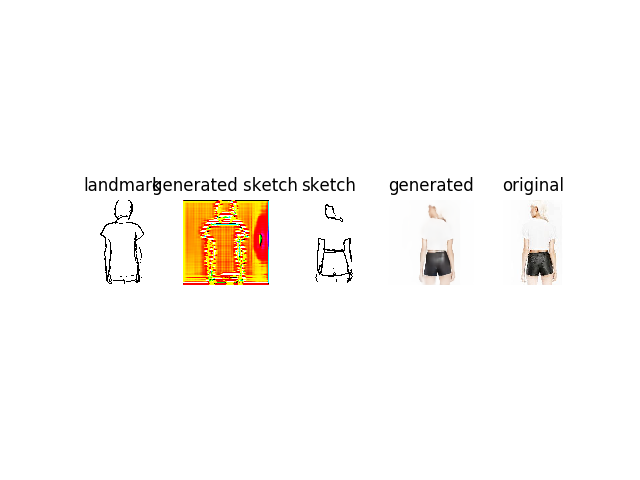
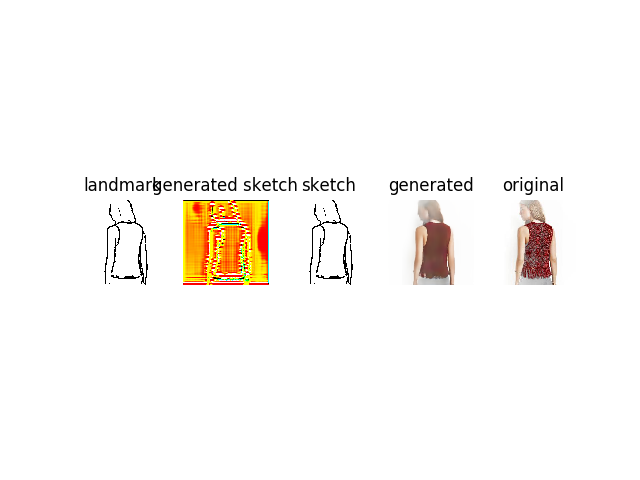
Test

diff --git a/test.py b/test.py
@@ -14,7 +14,7 @@ my_data_loader = DataLoader(img_size=(256, 256))
 imgs_A, imgs_B, imgs_C = my_data_loader.load_data_test(batch_size=2, is_testing=False)
 
 img_A = imgs_A[1,:,:,:] #(imgs_A[0,:,:,:] + imgs_A[1,:,:,:])*0.5
-img_B = imgs_A[0,:,:,:] #(imgs_B[0,:,:,:] + imgs_B[1,:,:,:])
+img_B = imgs_A[1,:,:,:] #(imgs_B[0,:,:,:] + imgs_B[1,:,:,:])
 img_C = imgs_C[1,:,:,:]
 
 img_A = img_A[np.newaxis,...]
@@ -27,7 +27,7 @@ model2 = load_model('../results/2stage/stage2-epoch-150.h5')
 
 # step3. predict results
 fake_A = model1.predict(img_B)
-sketch = np.concatenate([img_B, img_A], axis=3)
+sketch = np.concatenate([img_A, img_A], axis=3)
 fake_C = model2.predict(sketch)
 
 result = np.concatenate([img_B, fake_A, img_A, fake_C, img_C])
@@ -45,5 +45,6 @@ fig.savefig("test.png")
 plt.close()
 
 # print(fake_C.shape)
-output = np.squeeze((fake_A * 127.5 + 127.5).astype(np.uint8))
+output = np.squeeze((fake_C * 127.5 + 127.5).astype(np.uint8))
+output = cv2.cvtColor(output, cv2.COLOR_BGR2RGB)
 cv2.imwrite('test.jpg', output)

diff --git a/data_loader.py b/data_loader.py
@@ -15,7 +15,7 @@ class DataLoader():
         path = glob('../output/%s/*' % (data_type))
 
         # batch_images = np.random.choice(path, size=batch_size)
-        batch_images = ['../output/train/00000200.jpg', '../output/train/00001001.jpg']
+        batch_images = ['../output/train/00000200.jpg', '../output/train/00000100.jpg']
 
         imgs_A = []
         imgs_B = []
